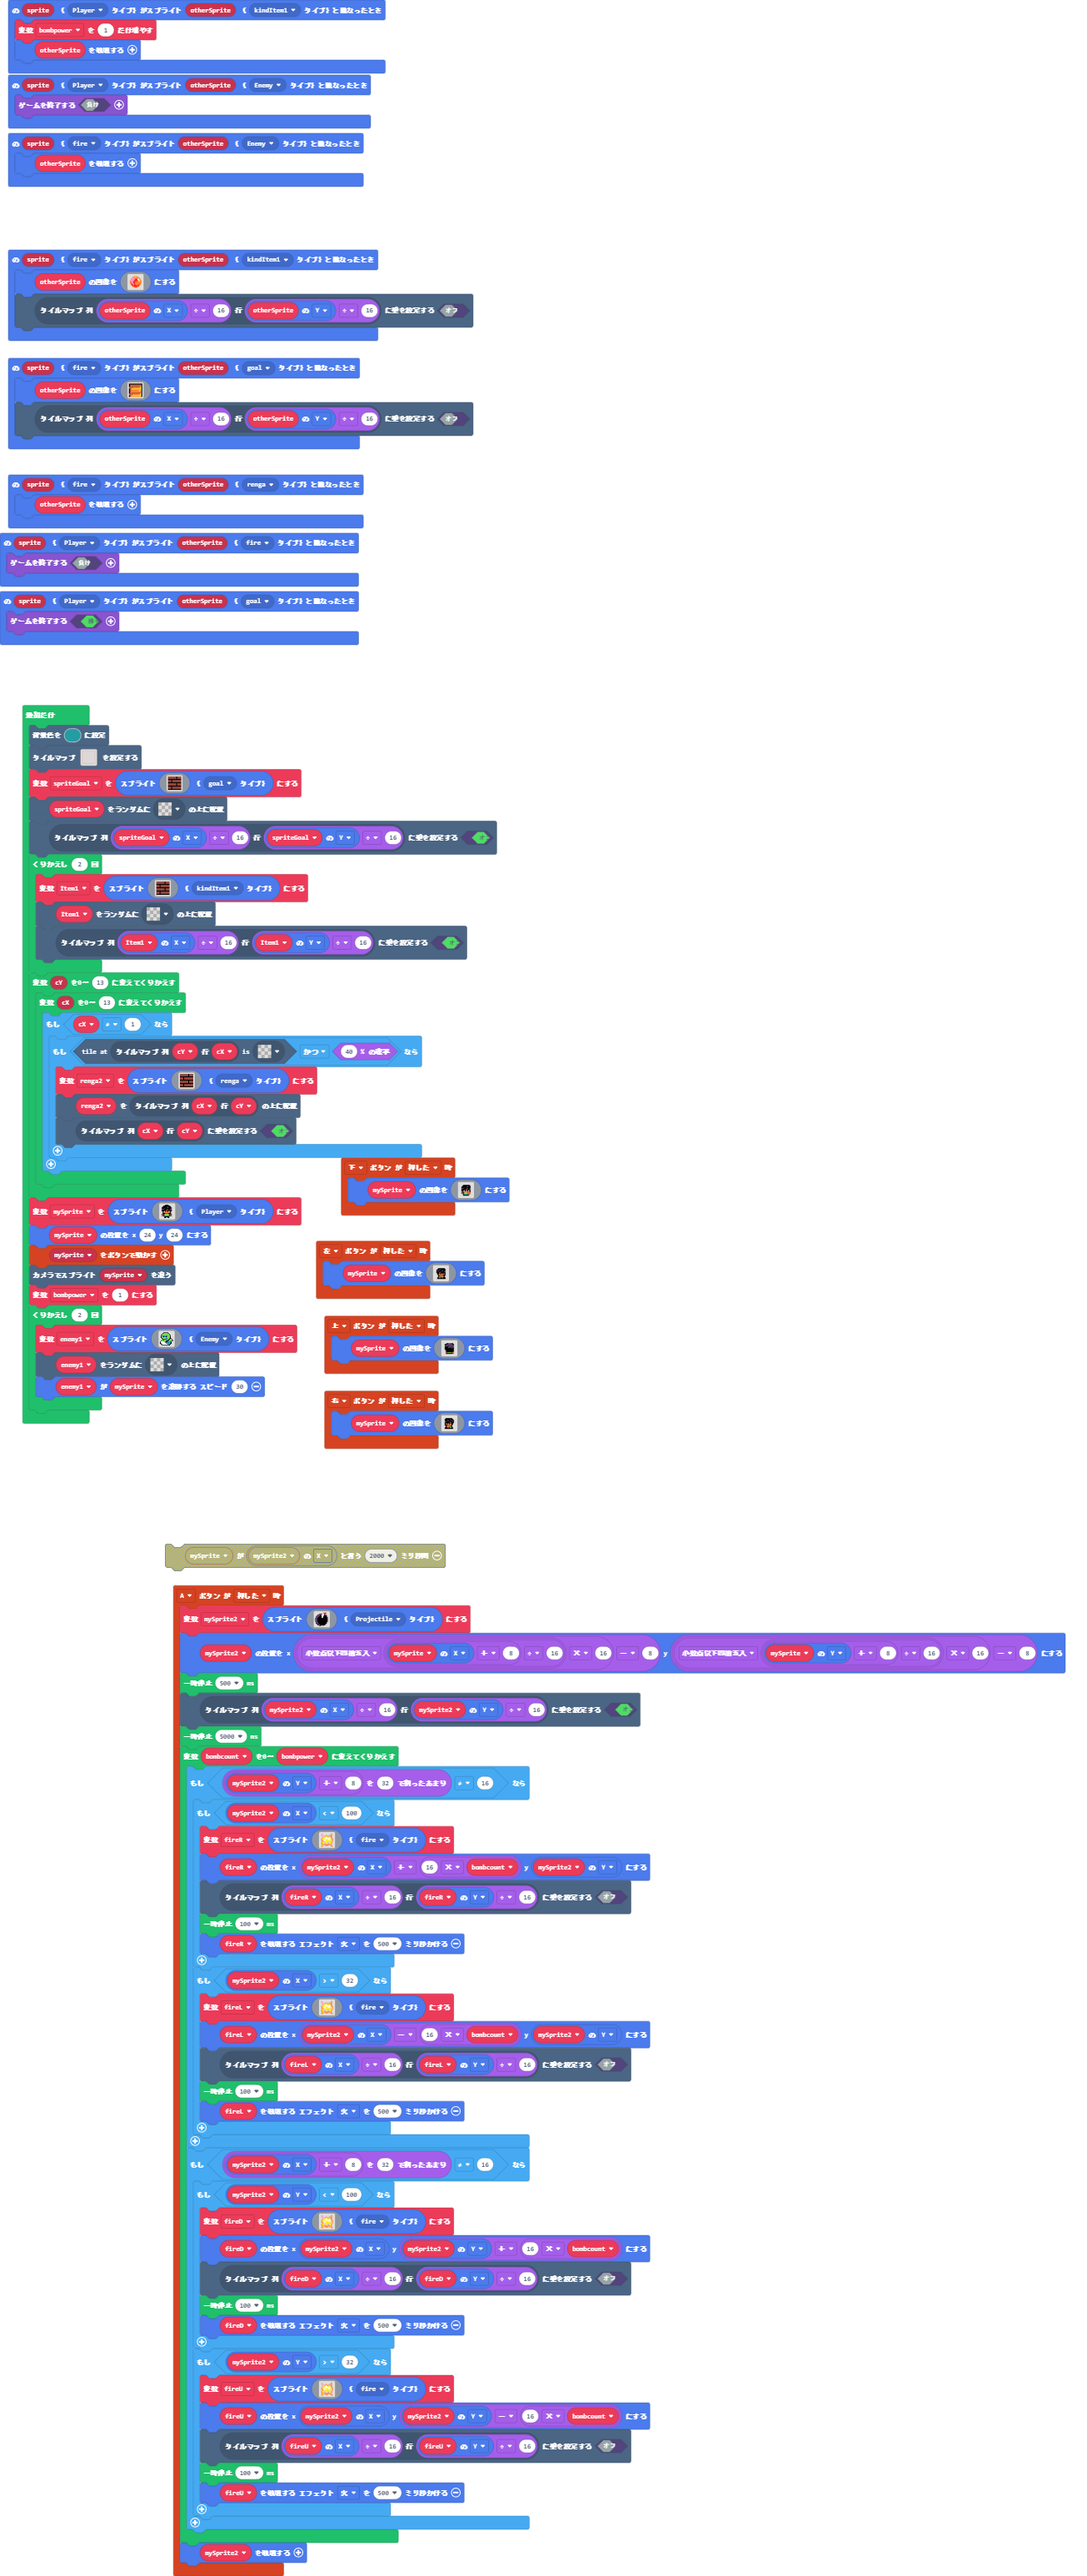
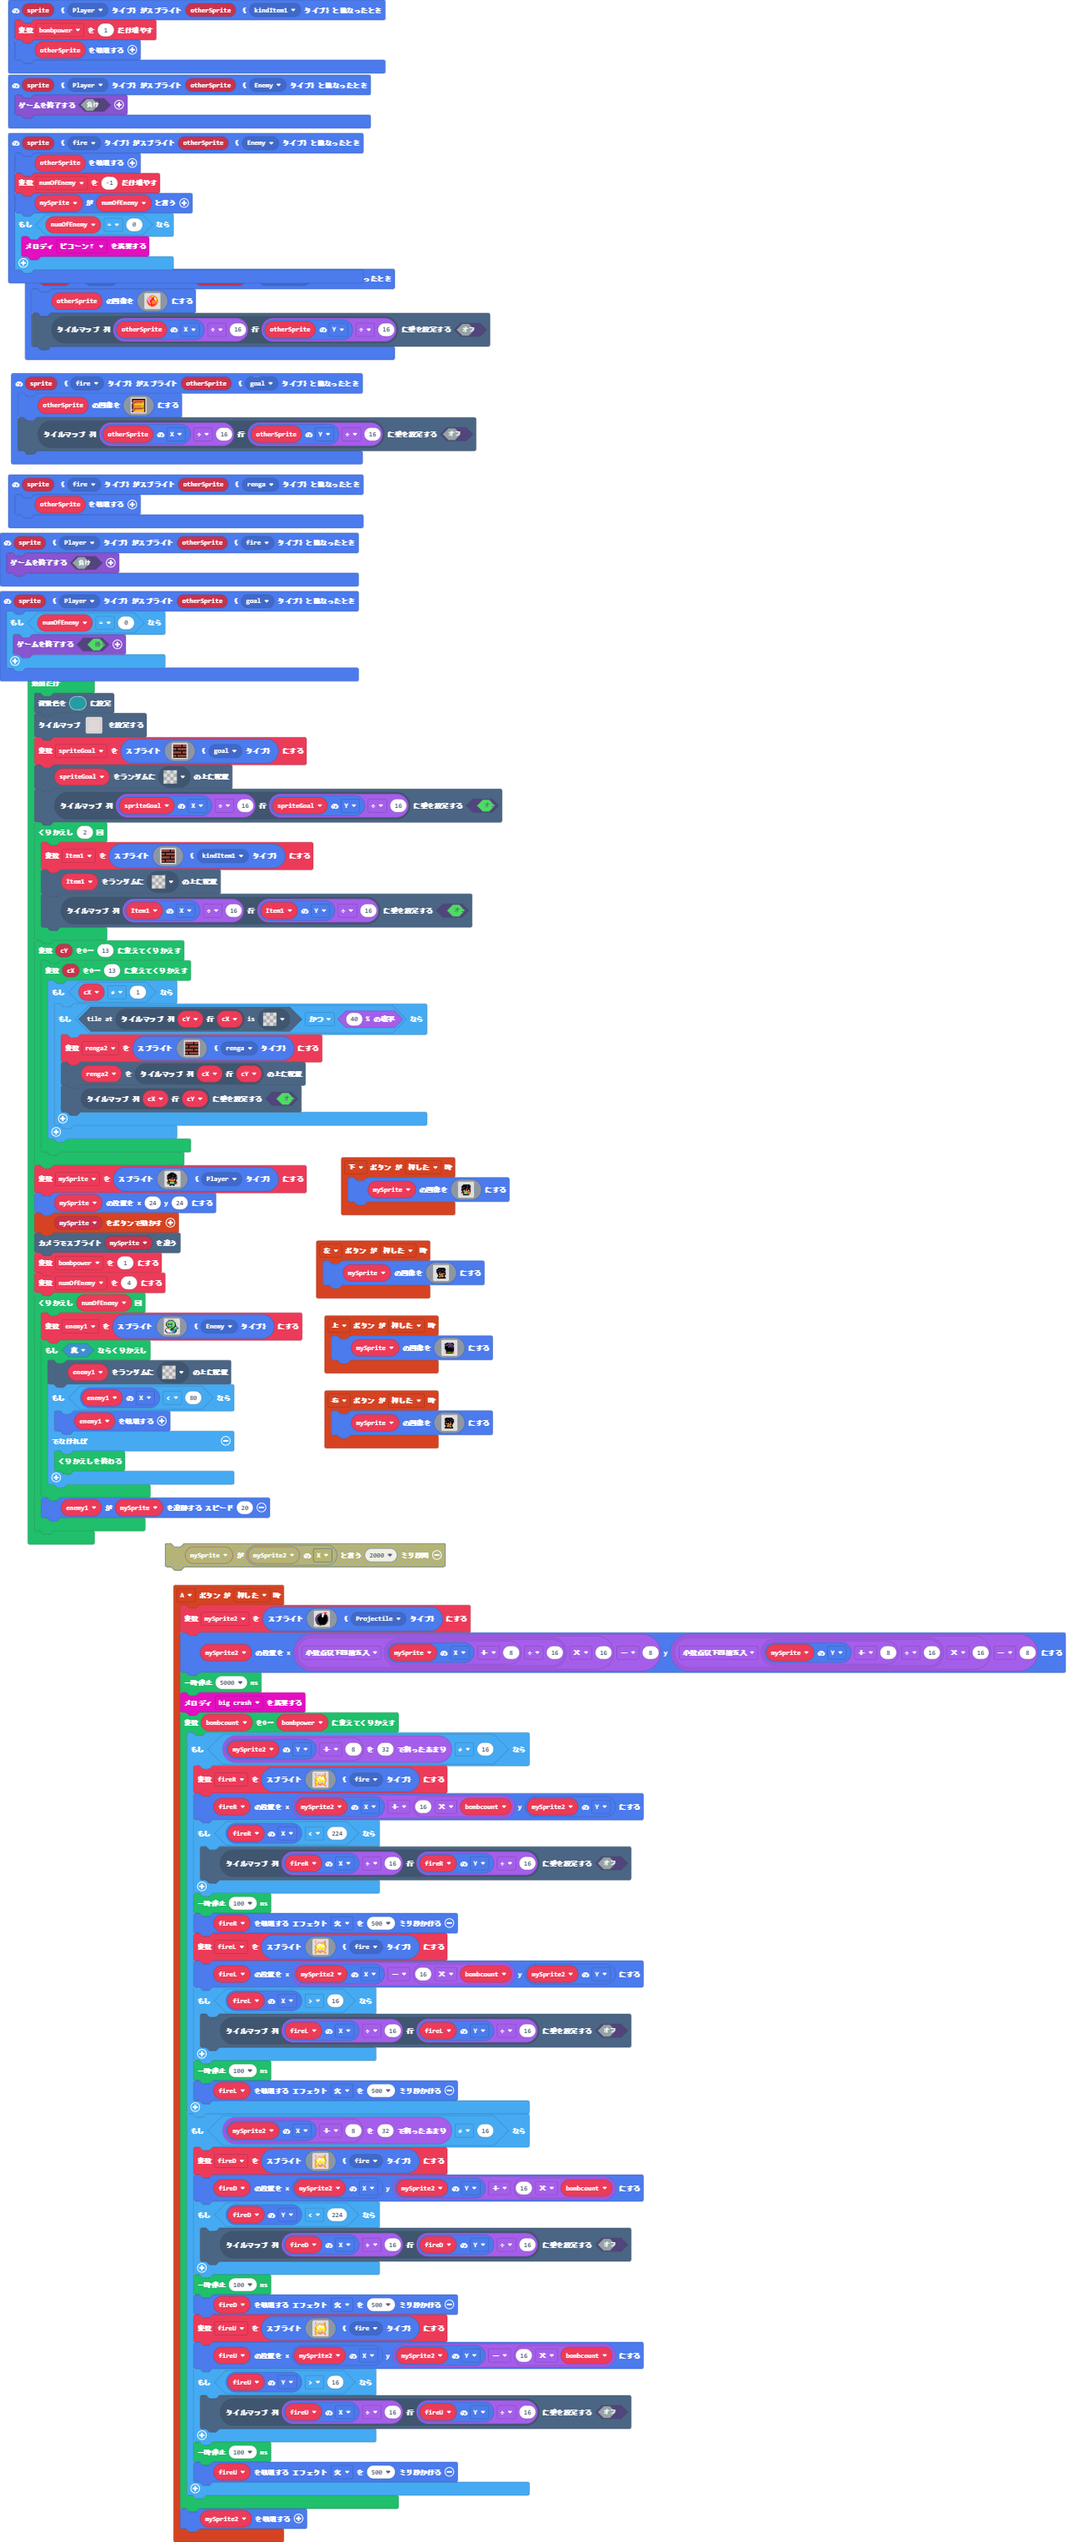
更新 main.blocks, main.ts

Changed region(s): [[0.0, 0.0, 0.9808, 0.9961]]

diff --git a/main.ts b/main.ts
@@ -53,6 +53,11 @@ sprites.onOverlap(SpriteKind.fire, SpriteKind.goal, function (sprite, otherSprit
 })
 sprites.onOverlap(SpriteKind.fire, SpriteKind.Enemy, function (sprite, otherSprite) {
     otherSprite.destroy()
+    numOfEnemy += -1
+    mySprite.say(numOfEnemy)
+    if (numOfEnemy == 0) {
+        music.baDing.play()
+    }
 })
 sprites.onOverlap(SpriteKind.fire, SpriteKind.renga, function (sprite, otherSprite) {
     otherSprite.destroy()
@@ -122,7 +127,9 @@ controller.left.onEvent(ControllerButtonEvent.Pressed, function () {
         `)
 })
 sprites.onOverlap(SpriteKind.Player, SpriteKind.goal, function (sprite, otherSprite) {
-    game.over(true)
+    if (numOfEnemy == 0) {
+        game.over(true)
+    }
 })
 controller.up.onEvent(ControllerButtonEvent.Pressed, function () {
     mySprite.setImage(img`
@@ -167,109 +174,108 @@ controller.A.onEvent(ControllerButtonEvent.Pressed, function () {
         . . . . . f f b b b b . . . . . 
         `, SpriteKind.Projectile)
     mySprite2.setPosition(Math.round((mySprite.x + 8) / 16) * 16 - 8, Math.round((mySprite.y + 8) / 16) * 16 - 8)
-    pause(500)
-    tiles.setWallAt(tiles.getTileLocation(mySprite2.x / 16, mySprite2.y / 16), true)
     pause(5000)
+    music.bigCrash.play()
     for (let bombcount = 0; bombcount <= bombpower; bombcount++) {
         if ((mySprite2.y + 8) % 32 != 16) {
-            if (mySprite2.x < 100) {
-                fireR = sprites.create(img`
-                    . 3 . . . . . . . . . . . 4 . . 
-                    . 3 3 . . . . . . . . . 4 4 . . 
-                    . 3 d 3 . . 4 4 . . 4 4 d 4 . . 
-                    . . 3 5 3 4 5 5 4 4 d d 4 4 . . 
-                    . . 3 d 5 d 1 1 d 5 5 d 4 4 . . 
-                    . . 4 5 5 1 1 1 1 5 1 1 5 4 . . 
-                    . 4 5 5 5 5 1 1 5 1 1 1 d 4 4 . 
-                    . 4 d 5 1 1 5 5 5 1 1 1 5 5 4 . 
-                    . 4 4 5 1 1 5 5 5 5 5 d 5 5 4 . 
-                    . . 4 3 d 5 5 5 d 5 5 d d d 4 . 
-                    . 4 5 5 d 5 5 5 d d d 5 5 4 . . 
-                    . 4 5 5 d 3 5 d d 3 d 5 5 4 . . 
-                    . 4 4 d d 4 d d d 4 3 d d 4 . . 
-                    . . 4 5 4 4 4 4 4 4 4 4 4 . . . 
-                    . 4 5 4 . . 4 4 4 . . . 4 4 . . 
-                    . 4 4 . . . . . . . . . . 4 4 . 
-                    `, SpriteKind.fire)
-                fireR.setPosition(mySprite2.x + 16 * bombcount, mySprite2.y)
+            fireR = sprites.create(img`
+                . 3 . . . . . . . . . . . 4 . . 
+                . 3 3 . . . . . . . . . 4 4 . . 
+                . 3 d 3 . . 4 4 . . 4 4 d 4 . . 
+                . . 3 5 3 4 5 5 4 4 d d 4 4 . . 
+                . . 3 d 5 d 1 1 d 5 5 d 4 4 . . 
+                . . 4 5 5 1 1 1 1 5 1 1 5 4 . . 
+                . 4 5 5 5 5 1 1 5 1 1 1 d 4 4 . 
+                . 4 d 5 1 1 5 5 5 1 1 1 5 5 4 . 
+                . 4 4 5 1 1 5 5 5 5 5 d 5 5 4 . 
+                . . 4 3 d 5 5 5 d 5 5 d d d 4 . 
+                . 4 5 5 d 5 5 5 d d d 5 5 4 . . 
+                . 4 5 5 d 3 5 d d 3 d 5 5 4 . . 
+                . 4 4 d d 4 d d d 4 3 d d 4 . . 
+                . . 4 5 4 4 4 4 4 4 4 4 4 . . . 
+                . 4 5 4 . . 4 4 4 . . . 4 4 . . 
+                . 4 4 . . . . . . . . . . 4 4 . 
+                `, SpriteKind.fire)
+            fireR.setPosition(mySprite2.x + 16 * bombcount, mySprite2.y)
+            if (fireR.x < 224) {
                 tiles.setWallAt(tiles.getTileLocation(fireR.x / 16, fireR.y / 16), false)
-                pause(100)
-                fireR.destroy(effects.fire, 500)
             }
-            if (mySprite2.x > 32) {
-                fireL = sprites.create(img`
-                    . 3 . . . . . . . . . . . 4 . . 
-                    . 3 3 . . . . . . . . . 4 4 . . 
-                    . 3 d 3 . . 4 4 . . 4 4 d 4 . . 
-                    . . 3 5 3 4 5 5 4 4 d d 4 4 . . 
-                    . . 3 d 5 d 1 1 d 5 5 d 4 4 . . 
-                    . . 4 5 5 1 1 1 1 5 1 1 5 4 . . 
-                    . 4 5 5 5 5 1 1 5 1 1 1 d 4 4 . 
-                    . 4 d 5 1 1 5 5 5 1 1 1 5 5 4 . 
-                    . 4 4 5 1 1 5 5 5 5 5 d 5 5 4 . 
-                    . . 4 3 d 5 5 5 d 5 5 d d d 4 . 
-                    . 4 5 5 d 5 5 5 d d d 5 5 4 . . 
-                    . 4 5 5 d 3 5 d d 3 d 5 5 4 . . 
-                    . 4 4 d d 4 d d d 4 3 d d 4 . . 
-                    . . 4 5 4 4 4 4 4 4 4 4 4 . . . 
-                    . 4 5 4 . . 4 4 4 . . . 4 4 . . 
-                    . 4 4 . . . . . . . . . . 4 4 . 
-                    `, SpriteKind.fire)
-                fireL.setPosition(mySprite2.x - 16 * bombcount, mySprite2.y)
+            pause(100)
+            fireR.destroy(effects.fire, 500)
+            fireL = sprites.create(img`
+                . 3 . . . . . . . . . . . 4 . . 
+                . 3 3 . . . . . . . . . 4 4 . . 
+                . 3 d 3 . . 4 4 . . 4 4 d 4 . . 
+                . . 3 5 3 4 5 5 4 4 d d 4 4 . . 
+                . . 3 d 5 d 1 1 d 5 5 d 4 4 . . 
+                . . 4 5 5 1 1 1 1 5 1 1 5 4 . . 
+                . 4 5 5 5 5 1 1 5 1 1 1 d 4 4 . 
+                . 4 d 5 1 1 5 5 5 1 1 1 5 5 4 . 
+                . 4 4 5 1 1 5 5 5 5 5 d 5 5 4 . 
+                . . 4 3 d 5 5 5 d 5 5 d d d 4 . 
+                . 4 5 5 d 5 5 5 d d d 5 5 4 . . 
+                . 4 5 5 d 3 5 d d 3 d 5 5 4 . . 
+                . 4 4 d d 4 d d d 4 3 d d 4 . . 
+                . . 4 5 4 4 4 4 4 4 4 4 4 . . . 
+                . 4 5 4 . . 4 4 4 . . . 4 4 . . 
+                . 4 4 . . . . . . . . . . 4 4 . 
+                `, SpriteKind.fire)
+            fireL.setPosition(mySprite2.x - 16 * bombcount, mySprite2.y)
+            if (fireL.x > 16) {
                 tiles.setWallAt(tiles.getTileLocation(fireL.x / 16, fireL.y / 16), false)
-                pause(100)
-                fireL.destroy(effects.fire, 500)
             }
+            pause(100)
+            fireL.destroy(effects.fire, 500)
         }
         if ((mySprite2.x + 8) % 32 != 16) {
-            if (mySprite2.y < 100) {
-                fireD = sprites.create(img`
-                    . 3 . . . . . . . . . . . 4 . . 
-                    . 3 3 . . . . . . . . . 4 4 . . 
-                    . 3 d 3 . . 4 4 . . 4 4 d 4 . . 
-                    . . 3 5 3 4 5 5 4 4 d d 4 4 . . 
-                    . . 3 d 5 d 1 1 d 5 5 d 4 4 . . 
-                    . . 4 5 5 1 1 1 1 5 1 1 5 4 . . 
-                    . 4 5 5 5 5 1 1 5 1 1 1 d 4 4 . 
-                    . 4 d 5 1 1 5 5 5 1 1 1 5 5 4 . 
-                    . 4 4 5 1 1 5 5 5 5 5 d 5 5 4 . 
-                    . . 4 3 d 5 5 5 d 5 5 d d d 4 . 
-                    . 4 5 5 d 5 5 5 d d d 5 5 4 . . 
-                    . 4 5 5 d 3 5 d d 3 d 5 5 4 . . 
-                    . 4 4 d d 4 d d d 4 3 d d 4 . . 
-                    . . 4 5 4 4 4 4 4 4 4 4 4 . . . 
-                    . 4 5 4 . . 4 4 4 . . . 4 4 . . 
-                    . 4 4 . . . . . . . . . . 4 4 . 
-                    `, SpriteKind.fire)
-                fireD.setPosition(mySprite2.x, mySprite2.y + 16 * bombcount)
+            fireD = sprites.create(img`
+                . 3 . . . . . . . . . . . 4 . . 
+                . 3 3 . . . . . . . . . 4 4 . . 
+                . 3 d 3 . . 4 4 . . 4 4 d 4 . . 
+                . . 3 5 3 4 5 5 4 4 d d 4 4 . . 
+                . . 3 d 5 d 1 1 d 5 5 d 4 4 . . 
+                . . 4 5 5 1 1 1 1 5 1 1 5 4 . . 
+                . 4 5 5 5 5 1 1 5 1 1 1 d 4 4 . 
+                . 4 d 5 1 1 5 5 5 1 1 1 5 5 4 . 
+                . 4 4 5 1 1 5 5 5 5 5 d 5 5 4 . 
+                . . 4 3 d 5 5 5 d 5 5 d d d 4 . 
+                . 4 5 5 d 5 5 5 d d d 5 5 4 . . 
+                . 4 5 5 d 3 5 d d 3 d 5 5 4 . . 
+                . 4 4 d d 4 d d d 4 3 d d 4 . . 
+                . . 4 5 4 4 4 4 4 4 4 4 4 . . . 
+                . 4 5 4 . . 4 4 4 . . . 4 4 . . 
+                . 4 4 . . . . . . . . . . 4 4 . 
+                `, SpriteKind.fire)
+            fireD.setPosition(mySprite2.x, mySprite2.y + 16 * bombcount)
+            if (fireD.y < 224) {
                 tiles.setWallAt(tiles.getTileLocation(fireD.x / 16, fireD.y / 16), false)
-                pause(100)
-                fireD.destroy(effects.fire, 500)
             }
-            if (mySprite2.y > 32) {
-                fireU = sprites.create(img`
-                    . 3 . . . . . . . . . . . 4 . . 
-                    . 3 3 . . . . . . . . . 4 4 . . 
-                    . 3 d 3 . . 4 4 . . 4 4 d 4 . . 
-                    . . 3 5 3 4 5 5 4 4 d d 4 4 . . 
-                    . . 3 d 5 d 1 1 d 5 5 d 4 4 . . 
-                    . . 4 5 5 1 1 1 1 5 1 1 5 4 . . 
-                    . 4 5 5 5 5 1 1 5 1 1 1 d 4 4 . 
-                    . 4 d 5 1 1 5 5 5 1 1 1 5 5 4 . 
-                    . 4 4 5 1 1 5 5 5 5 5 d 5 5 4 . 
-                    . . 4 3 d 5 5 5 d 5 5 d d d 4 . 
-                    . 4 5 5 d 5 5 5 d d d 5 5 4 . . 
-                    . 4 5 5 d 3 5 d d 3 d 5 5 4 . . 
-                    . 4 4 d d 4 d d d 4 3 d d 4 . . 
-                    . . 4 5 4 4 4 4 4 4 4 4 4 . . . 
-                    . 4 5 4 . . 4 4 4 . . . 4 4 . . 
-                    . 4 4 . . . . . . . . . . 4 4 . 
-                    `, SpriteKind.fire)
-                fireU.setPosition(mySprite2.x, mySprite2.y - 16 * bombcount)
+            pause(100)
+            fireD.destroy(effects.fire, 500)
+            fireU = sprites.create(img`
+                . 3 . . . . . . . . . . . 4 . . 
+                . 3 3 . . . . . . . . . 4 4 . . 
+                . 3 d 3 . . 4 4 . . 4 4 d 4 . . 
+                . . 3 5 3 4 5 5 4 4 d d 4 4 . . 
+                . . 3 d 5 d 1 1 d 5 5 d 4 4 . . 
+                . . 4 5 5 1 1 1 1 5 1 1 5 4 . . 
+                . 4 5 5 5 5 1 1 5 1 1 1 d 4 4 . 
+                . 4 d 5 1 1 5 5 5 1 1 1 5 5 4 . 
+                . 4 4 5 1 1 5 5 5 5 5 d 5 5 4 . 
+                . . 4 3 d 5 5 5 d 5 5 d d d 4 . 
+                . 4 5 5 d 5 5 5 d d d 5 5 4 . . 
+                . 4 5 5 d 3 5 d d 3 d 5 5 4 . . 
+                . 4 4 d d 4 d d d 4 3 d d 4 . . 
+                . . 4 5 4 4 4 4 4 4 4 4 4 . . . 
+                . 4 5 4 . . 4 4 4 . . . 4 4 . . 
+                . 4 4 . . . . . . . . . . 4 4 . 
+                `, SpriteKind.fire)
+            fireU.setPosition(mySprite2.x, mySprite2.y - 16 * bombcount)
+            if (fireU.y > 16) {
                 tiles.setWallAt(tiles.getTileLocation(fireU.x / 16, fireU.y / 16), false)
-                pause(100)
-                fireU.destroy(effects.fire, 500)
             }
+            pause(100)
+            fireU.destroy(effects.fire, 500)
         }
     }
     mySprite2.destroy()
@@ -280,6 +286,7 @@ let fireL: Sprite = null
 let fireR: Sprite = null
 let mySprite2: Sprite = null
 let enemy1: Sprite = null
+let numOfEnemy = 0
 let bombpower = 0
 let mySprite: Sprite = null
 let renga2: Sprite = null
@@ -378,7 +385,8 @@ mySprite.setPosition(24, 24)
 controller.moveSprite(mySprite)
 scene.cameraFollowSprite(mySprite)
 bombpower = 1
-for (let index = 0; index < 2; index++) {
+numOfEnemy = 4
+for (let index = 0; index < numOfEnemy; index++) {
     enemy1 = sprites.create(img`
         . . . . c c c c c c . . . . . . 
         . . . c 6 7 7 7 7 6 c . . . . . 
@@ -397,6 +405,13 @@ for (let index = 0; index < 2; index++) {
         . f 6 1 1 1 1 1 1 6 6 6 f . . . 
         . . c c c c c c c c c f . . . . 
         `, SpriteKind.Enemy)
-    tiles.placeOnRandomTile(enemy1, assets.tile`transparency16`)
-    enemy1.follow(mySprite, 30)
+    while (true) {
+        tiles.placeOnRandomTile(enemy1, assets.tile`transparency16`)
+        if (enemy1.x < 80) {
+            enemy1.destroy()
+        } else {
+            break;
+        }
+    }
+    enemy1.follow(mySprite, 20)
 }
